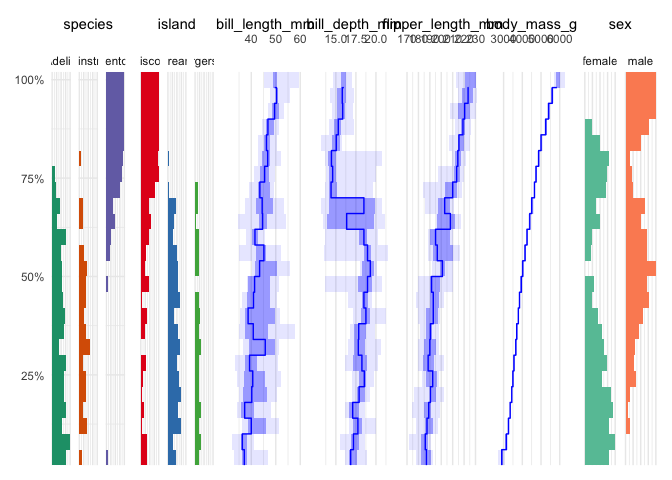
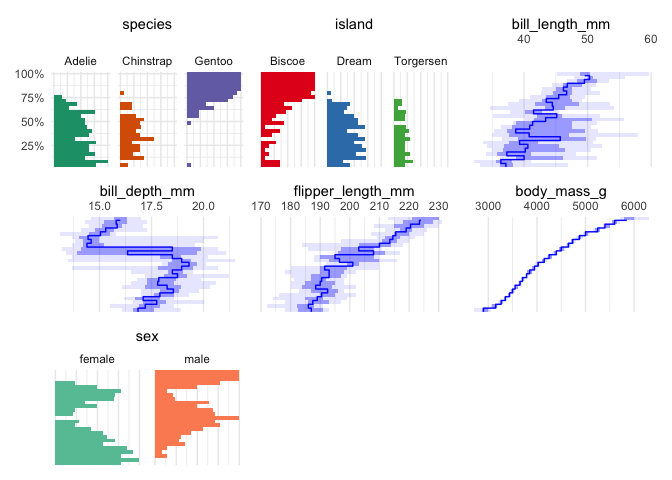
updating example

diff --git a/README.md b/README.md
@@ -40,7 +40,7 @@ percentile_dep_plot(iris, "Sepal.Length", 25)
 
 ``` r
 library(palmerpenguins)
-percentile_dep_plot(penguins[1:7], c("body_mass_g"), 25)
+percentile_dep_plot(penguins[1:7], c("body_mass_g"), 25, ncols = NULL)
 ```
 
 <img src="man/figures/README-percentile_plot_penguins-1.png" width="100%" />
